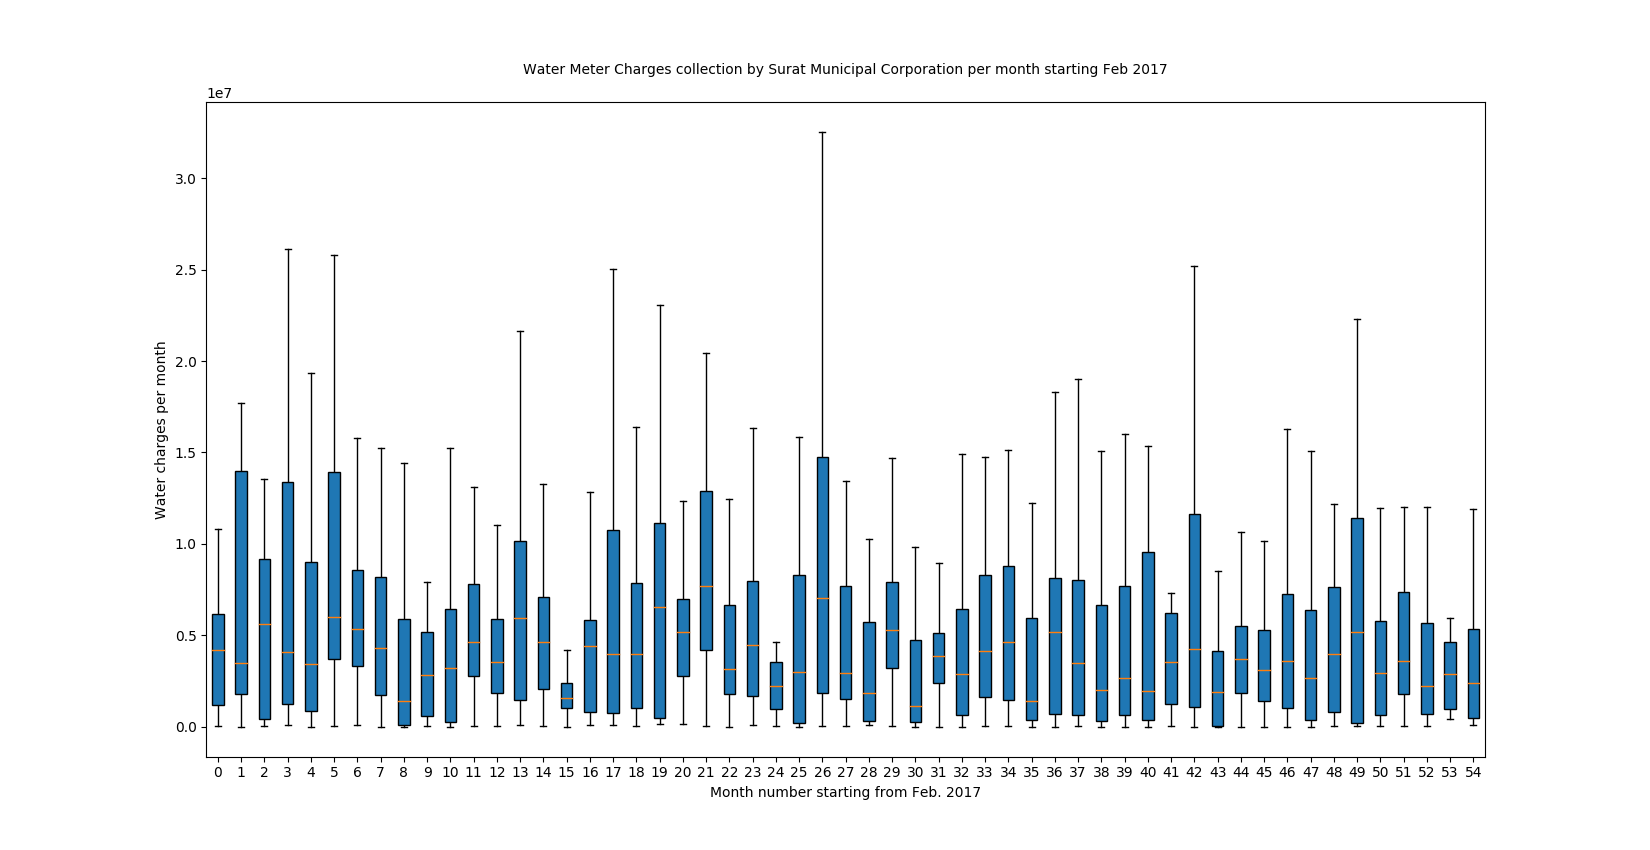
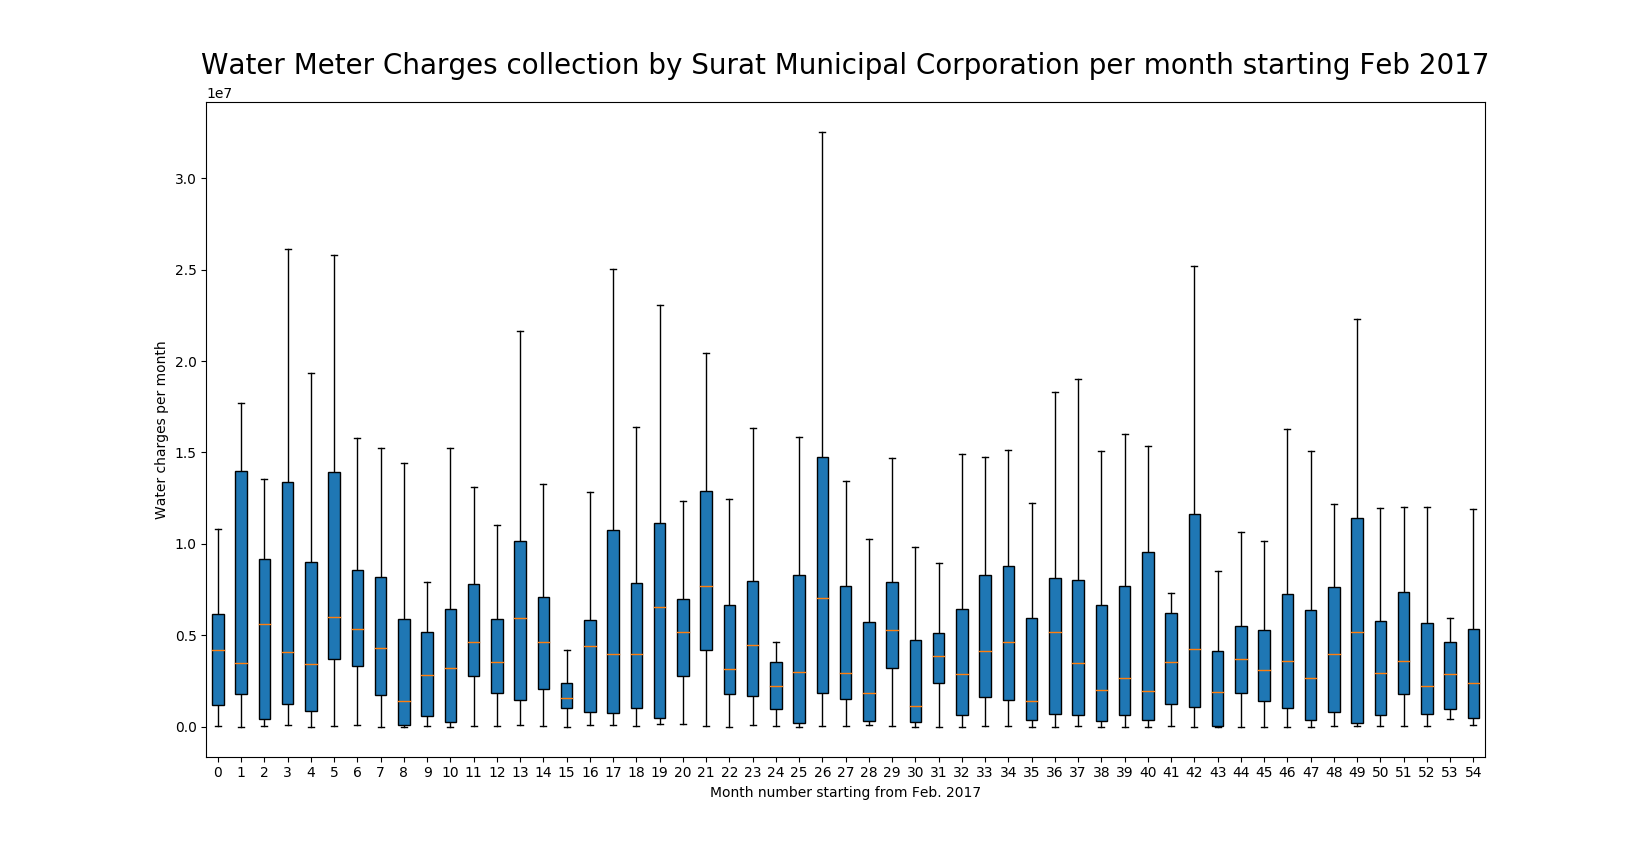
few changes

Changed region(s): [[0.1236, 0.0612, 0.8964, 0.0918]]

diff --git a/analysis.py b/analysis.py
@@ -58,7 +58,7 @@ plt.savefig('scatter_plot_water_charges_surat.png')
 
 fig, ax = plt.subplots()
 ax.boxplot(all_points, labels=x, patch_artist=True, meanline=True, showfliers=False)
-ax.set_title('Water Meter Charges collection by Surat Municipal Corporation per month starting Feb 2017', fontsize=10, pad=20)
+ax.set_title('Water Meter Charges collection by Surat Municipal Corporation per month starting Feb 2017', fontsize=20, pad=20)
 ax.set_ylabel('Water charges per month')
 ax.set_xlabel('Month number starting from Feb. 2017')
 fig.set_size_inches(16.5, 8.5)
